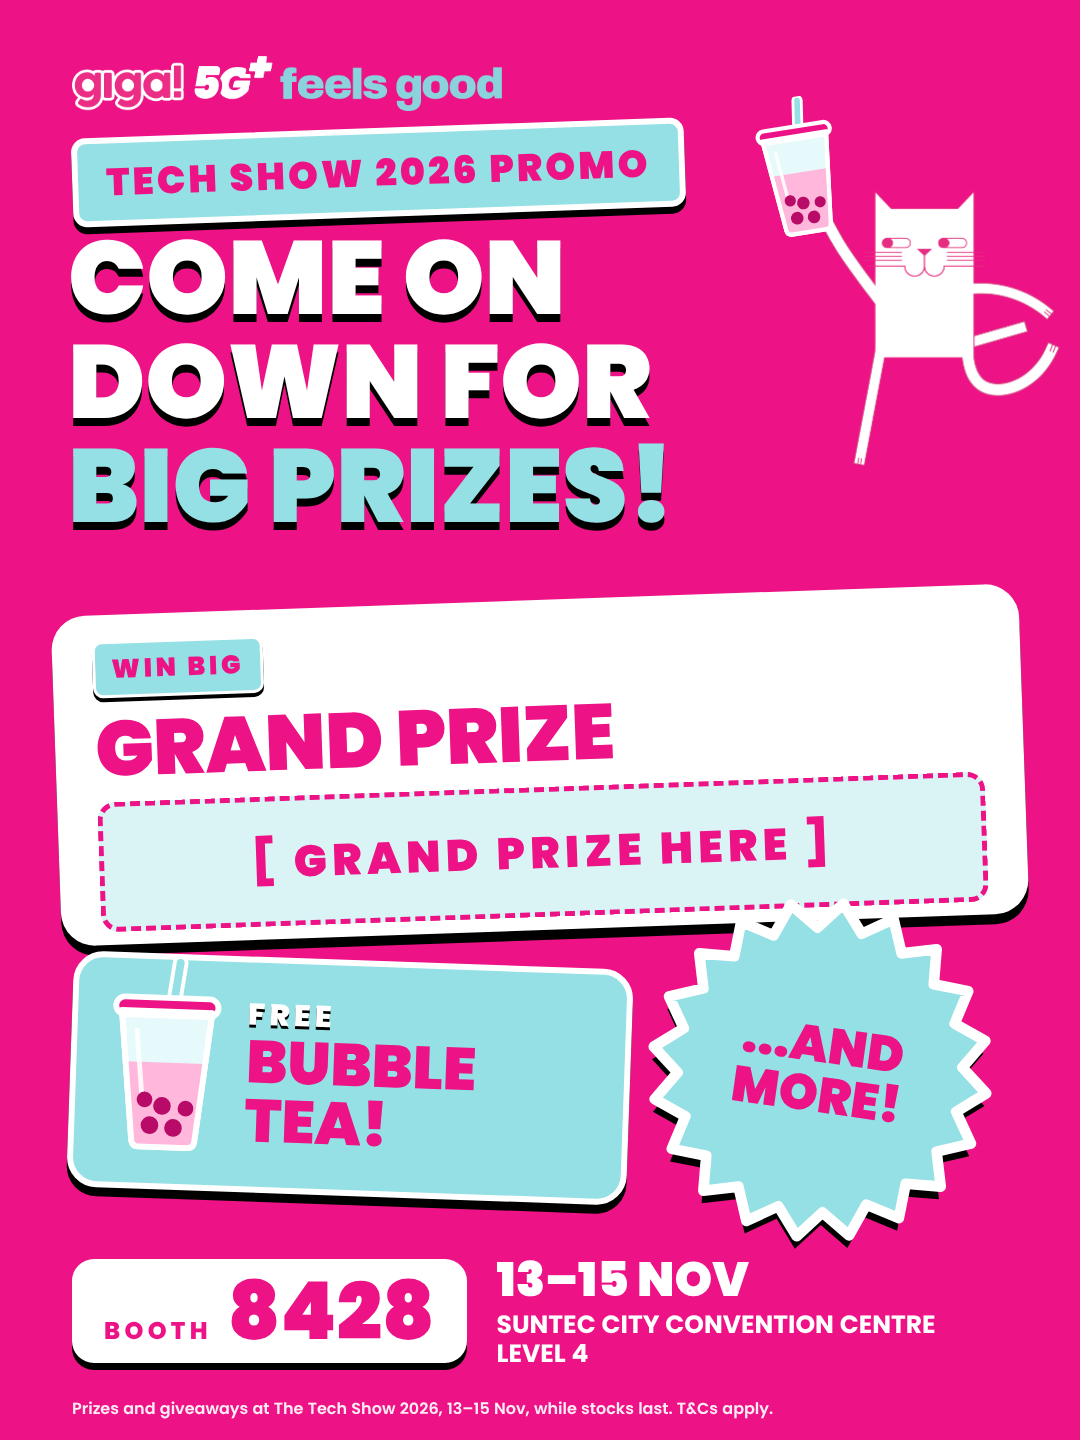
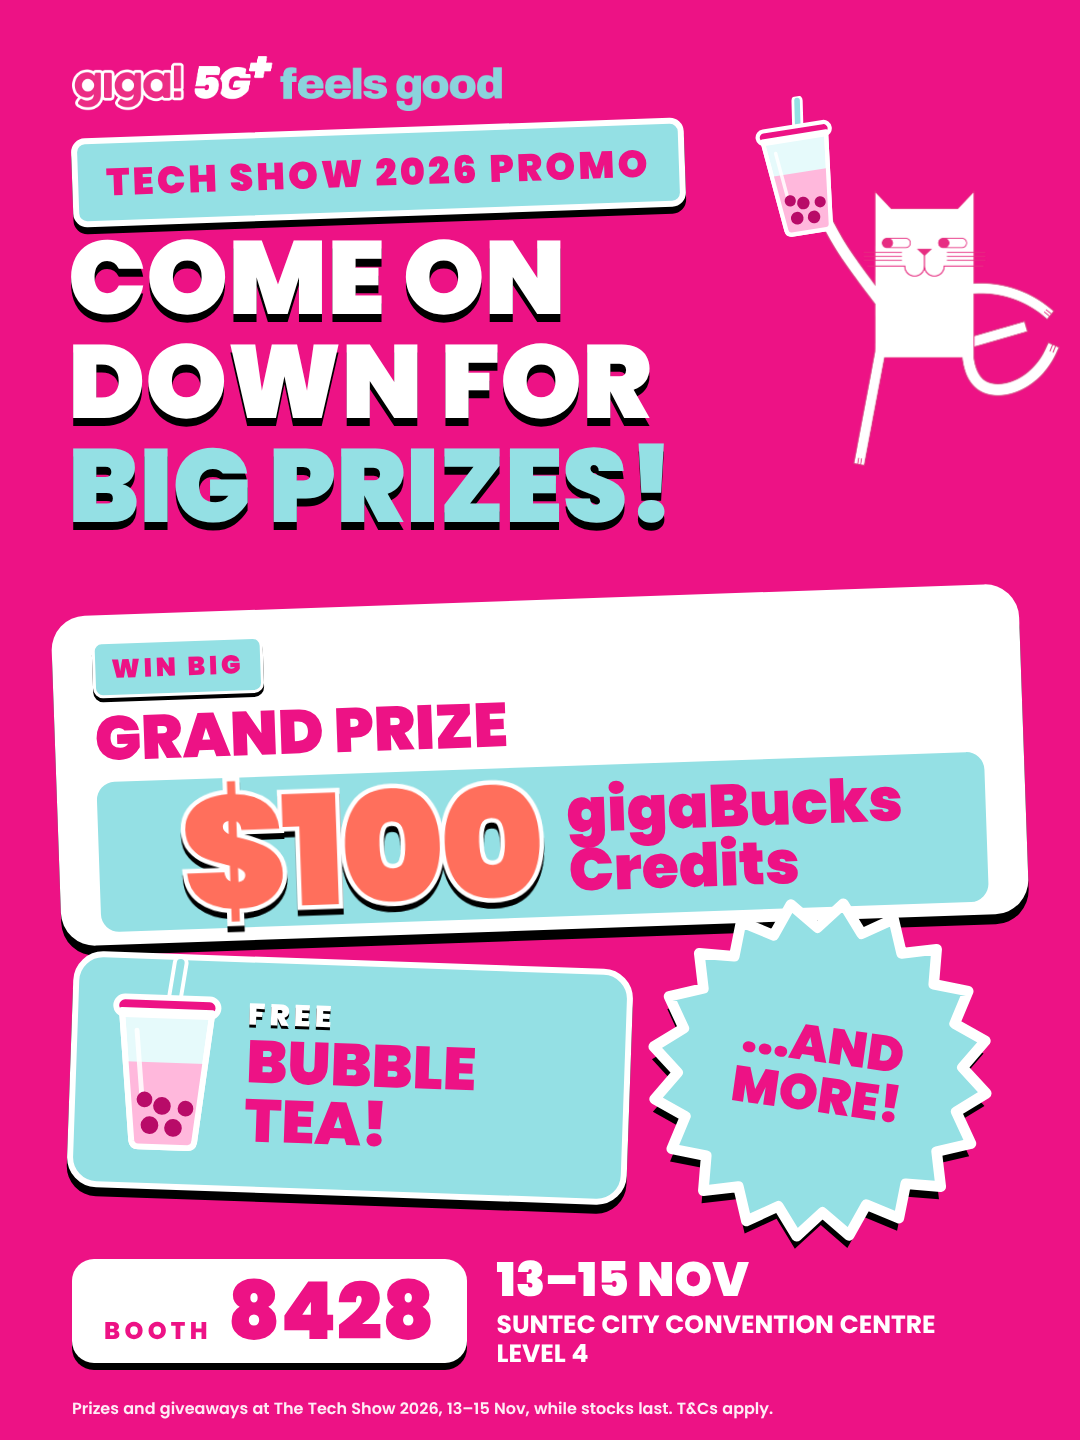
Post 7: grand prize is $100 gigaBucks Credits
Claude-Session: https://claude.ai/code/session_01QpHBCYvf2HgUsT79rZy6ps

Changed region(s): [[0.0917, 0.4688, 0.9167, 0.6562]]

diff --git a/giga-tech-show/post-7-big-prizes.html b/giga-tech-show/post-7-big-prizes.html
@@ -8,8 +8,10 @@
 .cuphold{position:absolute;z-index:5;left:768px;top:96px;width:84px;transform:rotate(-9deg);transform-origin:50% 100%}
 .gp{position:absolute;z-index:3;left:56px;top:600px;width:968px;height:330px;background:var(--white);color:var(--pink);border-radius:34px;box-shadow:0 10px 0 var(--black);transform:rotate(-2deg);padding:26px 40px;border:0}
 .gp .tag{font-size:26px}
-.gp h2{font-weight:900;font-size:78px;line-height:1;margin-top:12px;letter-spacing:-.005em}
-.gp .ph7{margin-top:14px;border:5px dashed var(--pink);border-radius:18px;background:rgba(148,224,228,.35);height:130px;display:flex;align-items:center;justify-content:center;font-weight:900;font-size:44px;letter-spacing:.12em}
+.gp h2{font-weight:900;font-size:62px;line-height:1;margin-top:10px;letter-spacing:-.005em}
+.gp .prize{margin-top:12px;border-radius:18px;background:var(--teal);height:150px;display:flex;align-items:center;justify-content:center;gap:28px;padding:0 24px}
+.gp .prize b{font-weight:900;font-size:158px;line-height:1;color:var(--coral);letter-spacing:-.03em;-webkit-text-stroke:9px var(--white);paint-order:stroke fill;filter:drop-shadow(0 6px 0 var(--black))}
+.gp .prize span{font-weight:900;font-size:60px;line-height:.98;color:var(--pink);text-align:left}
 .bbtcard{position:absolute;z-index:3;left:70px;top:960px;width:560px;height:236px;background:var(--teal);color:var(--pink);border-radius:30px;border:6px solid var(--white);box-shadow:0 9px 0 var(--black);transform:rotate(2deg);display:flex;align-items:center;gap:22px;padding:0 30px}
 .cupcard{flex:none;width:118px;height:auto;margin-top:-34px}
 .bbtcard .t1{font-weight:900;font-size:60px;line-height:.98}
@@ -39,7 +41,7 @@
     <path d="M14 56H106L92 188Q91 194 85 194H35Q29 194 28 188Z" fill="none" stroke="#fff" stroke-width="6" stroke-linejoin="round"/>
   </svg>
 <svg class="spk" style="left:620px;top:140px" width="60" height="60" viewBox="0 0 100 100"><path d="M50 0C54 30 70 46 100 50 70 54 54 70 50 100 46 70 30 54 0 50 30 46 46 30 50 0Z"/></svg>
-<div class="gp" data-placeholder="grand-prize"><span class="tag">WIN BIG</span><h2>GRAND PRIZE</h2><div class="ph7">[ GRAND PRIZE HERE ]</div></div>
+<div class="gp"><span class="tag">WIN BIG</span><h2>GRAND PRIZE</h2><div class="prize"><b>$100</b><span>gigaBucks<br>Credits</span></div></div>
 <div class="bbtcard"><svg class="cupcard" viewBox="0 0 120 200" aria-label="bubble tea">
     <g stroke="#fff" stroke-width="6" stroke-linejoin="round" stroke-linecap="round">
       <path d="M72 6L66 52" stroke="#fff" stroke-width="16"/>

diff --git a/.claude/skills/giga-social-posts/tools/build_post7.py b/.claude/skills/giga-social-posts/tools/build_post7.py
@@ -18,8 +18,10 @@ css='''
 .cuphold{position:absolute;z-index:5;left:768px;top:96px;width:84px;transform:rotate(-9deg);transform-origin:50% 100%}
 .gp{position:absolute;z-index:3;left:56px;top:600px;width:968px;height:330px;background:var(--white);color:var(--pink);border-radius:34px;box-shadow:0 10px 0 var(--black);transform:rotate(-2deg);padding:26px 40px;border:0}
 .gp .tag{font-size:26px}
-.gp h2{font-weight:900;font-size:78px;line-height:1;margin-top:12px;letter-spacing:-.005em}
-.gp .ph7{margin-top:14px;border:5px dashed var(--pink);border-radius:18px;background:rgba(148,224,228,.35);height:130px;display:flex;align-items:center;justify-content:center;font-weight:900;font-size:44px;letter-spacing:.12em}
+.gp h2{font-weight:900;font-size:62px;line-height:1;margin-top:10px;letter-spacing:-.005em}
+.gp .prize{margin-top:12px;border-radius:18px;background:var(--teal);height:150px;display:flex;align-items:center;justify-content:center;gap:28px;padding:0 24px}
+.gp .prize b{font-weight:900;font-size:158px;line-height:1;color:var(--coral);letter-spacing:-.03em;-webkit-text-stroke:9px var(--white);paint-order:stroke fill;filter:drop-shadow(0 6px 0 var(--black))}
+.gp .prize span{font-weight:900;font-size:60px;line-height:.98;color:var(--pink);text-align:left}
 .bbtcard{position:absolute;z-index:3;left:70px;top:960px;width:560px;height:236px;background:var(--teal);color:var(--pink);border-radius:30px;border:6px solid var(--white);box-shadow:0 9px 0 var(--black);transform:rotate(2deg);display:flex;align-items:center;gap:22px;padding:0 30px}
 .cupcard{flex:none;width:118px;height:auto;margin-top:-34px}
 .bbtcard .t1{font-weight:900;font-size:60px;line-height:.98}
@@ -37,7 +39,7 @@ body=f'''
 <img class="gino" src="assets/gino-wave.png" style="left:810px;top:190px;width:250px;z-index:4" alt="Gino waving">
 {cup_hold}
 <svg class="spk" style="left:620px;top:140px" width="60" height="60" viewBox="0 0 100 100"><path d="M50 0C54 30 70 46 100 50 70 54 54 70 50 100 46 70 30 54 0 50 30 46 46 30 50 0Z"/></svg>
-<div class="gp" data-placeholder="grand-prize"><span class="tag">WIN BIG</span><h2>GRAND PRIZE</h2><div class="ph7">[ GRAND PRIZE HERE ]</div></div>
+<div class="gp"><span class="tag">WIN BIG</span><h2>GRAND PRIZE</h2><div class="prize"><b>$100</b><span>gigaBucks<br>Credits</span></div></div>
 <div class="bbtcard">{cup_card}<div class="t1"><small>FREE</small>BUBBLE<br>TEA!</div></div>
 <div class="more"><svg viewBox="0 0 320 320"><polygon points="{pts}" transform="translate(0,12)" fill="#000"/><polygon points="{pts}" fill="#94E0E4" stroke="#fff" stroke-width="10" stroke-linejoin="round"/></svg><div><span>...AND<br>MORE!</span></div></div>
 {strip('pink')}

diff --git a/giga-tech-show/tools/build_post7.py b/giga-tech-show/tools/build_post7.py
@@ -18,8 +18,10 @@ css='''
 .cuphold{position:absolute;z-index:5;left:768px;top:96px;width:84px;transform:rotate(-9deg);transform-origin:50% 100%}
 .gp{position:absolute;z-index:3;left:56px;top:600px;width:968px;height:330px;background:var(--white);color:var(--pink);border-radius:34px;box-shadow:0 10px 0 var(--black);transform:rotate(-2deg);padding:26px 40px;border:0}
 .gp .tag{font-size:26px}
-.gp h2{font-weight:900;font-size:78px;line-height:1;margin-top:12px;letter-spacing:-.005em}
-.gp .ph7{margin-top:14px;border:5px dashed var(--pink);border-radius:18px;background:rgba(148,224,228,.35);height:130px;display:flex;align-items:center;justify-content:center;font-weight:900;font-size:44px;letter-spacing:.12em}
+.gp h2{font-weight:900;font-size:62px;line-height:1;margin-top:10px;letter-spacing:-.005em}
+.gp .prize{margin-top:12px;border-radius:18px;background:var(--teal);height:150px;display:flex;align-items:center;justify-content:center;gap:28px;padding:0 24px}
+.gp .prize b{font-weight:900;font-size:158px;line-height:1;color:var(--coral);letter-spacing:-.03em;-webkit-text-stroke:9px var(--white);paint-order:stroke fill;filter:drop-shadow(0 6px 0 var(--black))}
+.gp .prize span{font-weight:900;font-size:60px;line-height:.98;color:var(--pink);text-align:left}
 .bbtcard{position:absolute;z-index:3;left:70px;top:960px;width:560px;height:236px;background:var(--teal);color:var(--pink);border-radius:30px;border:6px solid var(--white);box-shadow:0 9px 0 var(--black);transform:rotate(2deg);display:flex;align-items:center;gap:22px;padding:0 30px}
 .cupcard{flex:none;width:118px;height:auto;margin-top:-34px}
 .bbtcard .t1{font-weight:900;font-size:60px;line-height:.98}
@@ -37,7 +39,7 @@ body=f'''
 <img class="gino" src="assets/gino-wave.png" style="left:810px;top:190px;width:250px;z-index:4" alt="Gino waving">
 {cup_hold}
 <svg class="spk" style="left:620px;top:140px" width="60" height="60" viewBox="0 0 100 100"><path d="M50 0C54 30 70 46 100 50 70 54 54 70 50 100 46 70 30 54 0 50 30 46 46 30 50 0Z"/></svg>
-<div class="gp" data-placeholder="grand-prize"><span class="tag">WIN BIG</span><h2>GRAND PRIZE</h2><div class="ph7">[ GRAND PRIZE HERE ]</div></div>
+<div class="gp"><span class="tag">WIN BIG</span><h2>GRAND PRIZE</h2><div class="prize"><b>$100</b><span>gigaBucks<br>Credits</span></div></div>
 <div class="bbtcard">{cup_card}<div class="t1"><small>FREE</small>BUBBLE<br>TEA!</div></div>
 <div class="more"><svg viewBox="0 0 320 320"><polygon points="{pts}" transform="translate(0,12)" fill="#000"/><polygon points="{pts}" fill="#94E0E4" stroke="#fff" stroke-width="10" stroke-linejoin="round"/></svg><div><span>...AND<br>MORE!</span></div></div>
 {strip('pink')}
